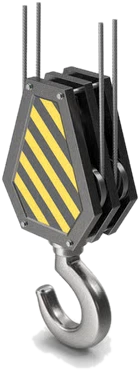
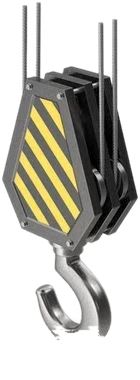
v2: gancho sin sombra horneada, sombra del palet restaurada

diff --git a/v2/index.html b/v2/index.html
@@ -53,7 +53,7 @@ padding:12px 22px;border-radius:9px;border:1.5px solid transparent;transition:.2
 /* objeto hero: palet fotográfico con la marca impresa en perspectiva */
 #pobj{position:absolute;left:50%;top:50%;width:min(46vw,690px);
 transform:translate(-50%,-46%);will-change:transform}
-.pfall{position:relative}
+.pfall{position:relative;filter:drop-shadow(-14px 26px 26px rgba(16,28,38,.13))}
 .pfall img{width:100%;height:auto;display:block}
 @media (prefers-reduced-motion:no-preference){
   .pfall{animation:pdrop 1.5s cubic-bezier(.16,1,.3,1) 1s both}
